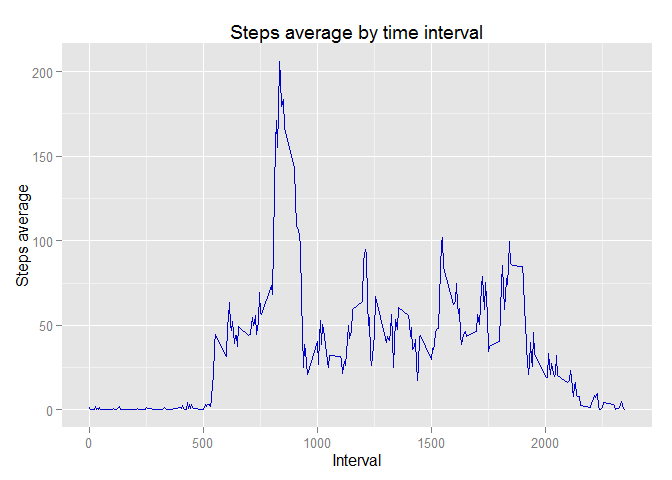
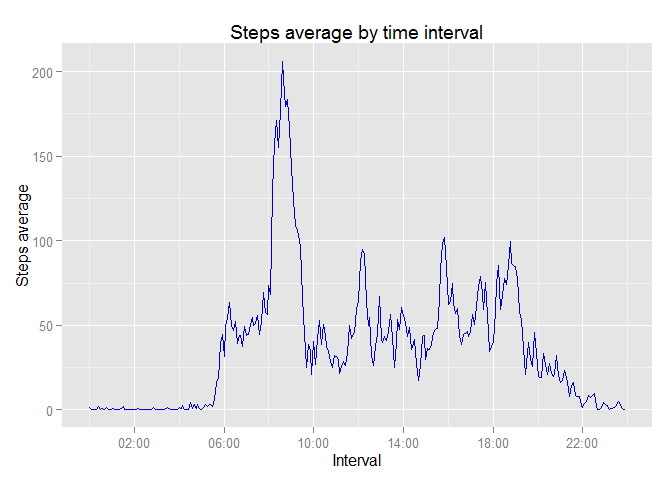
Begining of last question

diff --git a/PA1_template.html b/PA1_template.html
@@ -63,9 +63,12 @@ img {
 <div id="header">
 <h1 class="title">Reproducible Research: Peer Assessment 1</h1>
 <h4 class="author"><em>Tony G. Bolaño</em></h4>
+<h4 class="date"><em>May 2015</em></h4>
 </div>
 
 
+<p>Current document is the solution for assignment 1 of Coursera «Reproducible Research» by Johns Hopkins University Roger D. Peng, PhD, Jeff Leek, PhD, Brian Caffo, PhD.</p>
+<p>This assignment makes use of data from a personal activity monitoring device. This device collects data at 5 minute intervals through out the day. The data consists of two months of data from an anonymous individual collected during the months of October and November, 2012 and include the number of steps taken in 5 minute intervals each day.</p>
 <div id="loading-and-preprocessing-the-data" class="section level2">
 <h2>Loading and preprocessing the data</h2>
 <p>First of all we unzip the data file, which extracts <code>activity.csv</code> file. If <code>activity.csv</code> exists it will be overwritten.</p>
@@ -81,15 +84,19 @@ tryCatch({
 }, error = function(err) {
     stop(&quot;Error unzipping data file. Process has stopped.&quot;)
 })</code></pre>
-<p>Once we have tha CSV file, we import its data into activity data.frame.</p>
-<pre class="r"><code>activity &lt;- read.csv(&quot;activity.csv&quot;)</code></pre>
+<p>Once we have tha CSV file, we import its data into activity data.frame. We specify a data type for each column.</p>
+<pre class="r"><code>activity &lt;- read.csv(&quot;activity.csv&quot;, colClasses = c(&quot;integer&quot;, &quot;Date&quot;, &quot;integer&quot;))</code></pre>
+<p>Now, we add a new column converting interval to a human readable time format:</p>
+<pre class="r"><code>interval &lt;- activity$interval
+activity$human_interval &lt;- sprintf(&quot;%02d:%02d&quot;, interval%/%100, interval%%100)</code></pre>
 </div>
 <div id="what-is-mean-total-number-of-steps-taken-per-day" class="section level2">
 <h2>What is mean total number of steps taken per day?</h2>
 <p>First we calculate total steps by day using <code>aggregate</code> function and plot an histogram with resulting data.frame.</p>
 <pre class="r"><code>steps_by_day &lt;- aggregate(steps ~ date, activity, sum)
-library(ggplot2)
-p &lt;- ggplot(steps_by_day, aes(x = (steps)))
+require(ggplot2)</code></pre>
+<pre><code>## Loading required package: ggplot2</code></pre>
+<pre class="r"><code>p &lt;- ggplot(steps_by_day, aes(x = (steps)))
 p &lt;- p + labs( x = &quot;Steps&quot;, y = &quot;Count of days&quot;, title = &quot;Histogram: Steps taken per day&quot;)
 p &lt;- p + geom_histogram(binwidth = 3000 ,aes(fill = ..count..))
 p</code></pre>
@@ -103,21 +110,58 @@ p</code></pre>
 <div id="what-is-the-average-daily-activity-pattern" class="section level2">
 <h2>What is the average daily activity pattern?</h2>
 <p>First we calculate the mean of steps on each five minutes interval. and draw a time series plot, marking the value of max. average steps at the top of the line.</p>
-<pre class="r"><code>int_avg &lt;- aggregate(steps ~ interval, activity, mean)
+<pre class="r"><code>require(scales)</code></pre>
+<pre><code>## Loading required package: scales</code></pre>
+<pre class="r"><code>int_avg &lt;- aggregate(steps ~ human_interval, activity, mean)
 
-p &lt;- ggplot( int_avg, aes(x = interval, y = steps)) + geom_line(colour = &quot;#0000CC&quot;)
+p &lt;- ggplot( int_avg, aes(x = strptime(human_interval, format=&quot;%H:%M&quot;), y = steps)) + geom_line(colour = &quot;#0000CC&quot;, aes(group = 1))
 p &lt;- p + labs(x = &quot;Interval&quot;, y = &quot;Steps average&quot;, title = &quot;Steps average by time interval&quot;)
+p &lt;- p + scale_x_datetime(labels = date_format(&quot;%H:%M&quot;),breaks = date_breaks(&quot;4 hour&quot;))
 p</code></pre>
[2 lines of base64/hex data omitted]
 <p>With this data.frame we calculate max value for steps and which interval correspond to that value.</p>
-<pre class="r"><code>maxavg &lt;- max(int_avg$steps)
-maxint &lt;- int_avg[int_avg$steps == maxavg,&quot;interval&quot;]
-maxint</code></pre>
-<pre><code>## [1] 835</code></pre>
-<p>As you can see, the max average of steps is around <strong>206</strong> steps at <strong>835</strong> interval.</p>
+<pre class="r"><code>maxavgint &lt;- int_avg[which.max(int_avg$steps),]
+maxavgint</code></pre>
+<pre><code>##     human_interval    steps
+## 104          08:35 206.1698</code></pre>
+<p>As you can see, the max average of steps is around <strong>206</strong> steps at <strong>08:35</strong> interval.</p>
 </div>
 <div id="imputing-missing-values" class="section level2">
 <h2>Imputing missing values</h2>
+<p>My first look for missing values is through summary function. When applied to a data frame, the summary() function is essentially applied to each column, and the results for all columns are shown together. If there are any missing values (denoted by <code>NA</code> for a particular datum), it would also provide a count for them.</p>
+<pre class="r"><code>summary(activity)</code></pre>
+<pre><code>##      steps             date               interval      human_interval    
+##  Min.   :  0.00   Min.   :2012-10-01   Min.   :   0.0   Length:17568      
+##  1st Qu.:  0.00   1st Qu.:2012-10-16   1st Qu.: 588.8   Class :character  
+##  Median :  0.00   Median :2012-10-31   Median :1177.5   Mode  :character  
+##  Mean   : 37.38   Mean   :2012-10-31   Mean   :1177.5                     
+##  3rd Qu.: 12.00   3rd Qu.:2012-11-15   3rd Qu.:1766.2                     
+##  Max.   :806.00   Max.   :2012-11-30   Max.   :2355.0                     
+##  NA's   :2304</code></pre>
+<p>But I want to embed the result into the text (inline) so I have to find another solution. It’s a trivial one, We can use <code>is.na</code> function and <code>sum</code> the values (<code>TRUE</code> is treated as 1 and <code>FALSE</code> is treated as 0).</p>
+<pre class="r"><code>nacount &lt;- sum(is.na(activity$steps))
+nacount</code></pre>
+<pre><code>## [1] 2304</code></pre>
+<p>After doing this we can embed inline and say that <strong>There are 2304 missing values in the original data</strong>.</p>
+<p>To deal with misiing data we’re going to create a new dataset that is equal to the original but with the missing data filled with the mean for that 5-minute interval.</p>
+<pre class="r"><code>noNa &lt;- activity
+for (i in 1:nrow(noNa)) {
+    if (is.na(noNa$steps[i])) {
+        noNa$steps[i] &lt;- int_avg[which(noNa$human_interval[i] == int_avg$human_interval),]$steps
+    }
+}</code></pre>
+<p>If we create an histogram similar to plot 1 and calculate mean and median</p>
+<pre class="r"><code>steps_by_day &lt;- aggregate(steps ~ date, noNa, sum)
+p &lt;- ggplot(steps_by_day, aes(x = (steps)))
+p &lt;- p + labs( x = &quot;Steps (No NA's)&quot;, y = &quot;Count of days&quot;, title = &quot;Histogram: Steps taken per day (filling NA's)&quot;)
+p &lt;- p + geom_histogram(binwidth = 3000 ,aes(fill = ..count..))
+p</code></pre>
[1 lines of base64/hex data omitted]
+<pre class="r"><code>mean(steps_by_day$steps)</code></pre>
+<pre><code>## [1] 10766.19</code></pre>
+<pre class="r"><code>median(steps_by_day$steps)</code></pre>
+<pre><code>## [1] 10766.19</code></pre>
+<p>We could see an increase number of days at central bar (around mean), but not specially remarkable.</p>
 </div>
 <div id="are-there-differences-in-activity-patterns-between-weekdays-and-weekends" class="section level2">
 <h2>Are there differences in activity patterns between weekdays and weekends?</h2>

diff --git a/PA1_template.md b/PA1_template.md
@@ -1,6 +1,10 @@
 # Reproducible Research: Peer Assessment 1
 Tony G. Bolaño  
+May 2015  
 
+Current document is the solution for assignment 1 of Coursera &laquo;Reproducible Research&raquo; by Johns Hopkins University Roger D. Peng, PhD, Jeff Leek, PhD, Brian Caffo, PhD.
+
+This assignment makes use of data from a personal activity monitoring device. This device collects data at 5 minute intervals through out the day. The data consists of two months of data from an anonymous individual collected during the months of October and November, 2012 and include the number of steps taken in 5 minute intervals each day.
 
 ## Loading and preprocessing the data
 
@@ -25,13 +29,20 @@ tryCatch({
 })
 ```
 
-Once we have tha CSV file, we import its data into activity data.frame.
+Once we have tha CSV file, we import its data into activity data.frame. We specify a data type for each column.
 
 
 ```r
-activity <- read.csv("activity.csv")
+activity <- read.csv("activity.csv", colClasses = c("integer", "Date", "integer"))
 ```
 
+Now, we add a new column converting interval to a human readable time format:
+
+
+```r
+interval <- activity$interval
+activity$human_interval <- sprintf("%02d:%02d", interval%/%100, interval%%100)
+```
 
 ## What is mean total number of steps taken per day?
 
@@ -40,7 +51,14 @@ First we calculate total steps by day using ```aggregate``` function and plot an
 
 ```r
 steps_by_day <- aggregate(steps ~ date, activity, sum)
-library(ggplot2)
+require(ggplot2)
+```
+
+```
+## Loading required package: ggplot2
+```
+
+```r
 p <- ggplot(steps_by_day, aes(x = (steps)))
 p <- p + labs( x = "Steps", y = "Count of days", title = "Histogram: Steps taken per day")
 p <- p + geom_histogram(binwidth = 3000 ,aes(fill = ..count..))
@@ -74,10 +92,19 @@ First we calculate the mean of steps on each five minutes interval. and draw a t
 
 
 ```r
-int_avg <- aggregate(steps ~ interval, activity, mean)
+require(scales)
+```
 
-p <- ggplot( int_avg, aes(x = interval, y = steps)) + geom_line(colour = "#0000CC")
+```
+## Loading required package: scales
+```
+
+```r
+int_avg <- aggregate(steps ~ human_interval, activity, mean)
+
+p <- ggplot( int_avg, aes(x = strptime(human_interval, format="%H:%M"), y = steps)) + geom_line(colour = "#0000CC", aes(group = 1))
 p <- p + labs(x = "Interval", y = "Steps average", title = "Steps average by time interval")
+p <- p + scale_x_datetime(labels = date_format("%H:%M"),breaks = date_breaks("4 hour"))
 p
 ```
 
@@ -87,20 +114,94 @@ With this data.frame we calculate max value for steps and which interval corresp
 
 
 ```r
-maxavg <- max(int_avg$steps)
-maxint <- int_avg[int_avg$steps == maxavg,"interval"]
-maxint
+maxavgint <- int_avg[which.max(int_avg$steps),]
+maxavgint
 ```
 
 ```
-## [1] 835
+##     human_interval    steps
+## 104          08:35 206.1698
 ```
 
-As you can see, the max average of steps is around **206** steps at **835** interval.
+As you can see, the max average of steps is around **206** steps at **08:35** interval.
 
 
 ## Imputing missing values
 
+My first look for missing values is through summary function. When applied to a data frame, the summary() function is essentially applied to each column, and the results for all columns are shown together. If there are any missing values (denoted by ```NA``` for a particular datum), it would also provide a count for them.
 
+
+```r
+summary(activity)
+```
+
+```
+##      steps             date               interval      human_interval    
+##  Min.   :  0.00   Min.   :2012-10-01   Min.   :   0.0   Length:17568      
+##  1st Qu.:  0.00   1st Qu.:2012-10-16   1st Qu.: 588.8   Class :character  
+##  Median :  0.00   Median :2012-10-31   Median :1177.5   Mode  :character  
+##  Mean   : 37.38   Mean   :2012-10-31   Mean   :1177.5                     
+##  3rd Qu.: 12.00   3rd Qu.:2012-11-15   3rd Qu.:1766.2                     
+##  Max.   :806.00   Max.   :2012-11-30   Max.   :2355.0                     
+##  NA's   :2304
+```
+
+But I want to embed the result into the text (inline) so I have to find another solution. It's a trivial one, We can use ```is.na``` function and ```sum``` the values (```TRUE``` is treated as 1 and ```FALSE``` is treated as 0).
+
+
+```r
+nacount <- sum(is.na(activity$steps))
+nacount
+```
+
+```
+## [1] 2304
+```
+
+After doing this we can embed inline and say that **There are 2304 missing values in the original data**.
+
+To deal with misiing data we're going to create a new dataset that is equal to the original but with the missing data filled with the mean for that 5-minute interval.
+
+
+```r
+noNa <- activity
+for (i in 1:nrow(noNa)) {
+    if (is.na(noNa$steps[i])) {
+        noNa$steps[i] <- int_avg[which(noNa$human_interval[i] == int_avg$human_interval),]$steps
+    }
+}
+```
+
+If we create an histogram similar to plot 1 and calculate mean and median
+
+
+```r
+steps_by_day <- aggregate(steps ~ date, noNa, sum)
+p <- ggplot(steps_by_day, aes(x = (steps)))
+p <- p + labs( x = "Steps (No NA's)", y = "Count of days", title = "Histogram: Steps taken per day (filling NA's)")
+p <- p + geom_histogram(binwidth = 3000 ,aes(fill = ..count..))
+p
+```
+
+![](PA1_template_files/figure-html/Steps by day (No NA's)-1.png) 
+
+
+```r
+mean(steps_by_day$steps)
+```
+
+```
+## [1] 10766.19
+```
+
+```r
+median(steps_by_day$steps)
+```
+
+```
+## [1] 10766.19
+```
+
+We could see an increase number of days at central bar (around mean), but not specially remarkable.
 
 ## Are there differences in activity patterns between weekdays and weekends?
